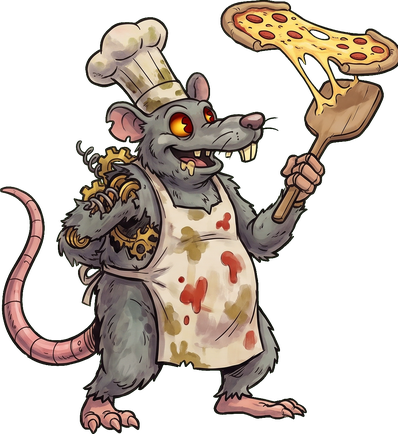
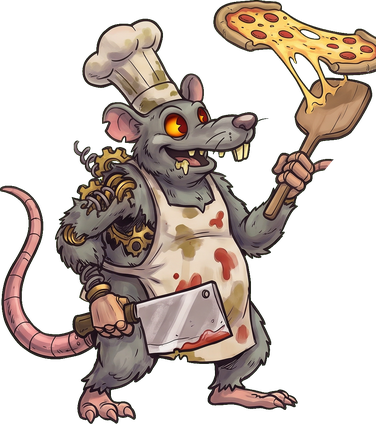
Big Cheese: one consistent cleaver
Redrew the boss with the same single cleaver in every pose (idle, raise, chop, pizza throw, angry)
and use that painted cleaver for the giant slam attack instead of a flat grey block.
Fix his leap never reaching the top of the screen, which left him missing for seconds.

Claude-Session: https://claude.ai/code/session_01QtVCv6hvRPeFWVPR6AJn1G

diff --git a/engine/src/game.c b/engine/src/game.c
@@ -24,7 +24,7 @@ static float signf(float v) { return v < 0 ? -1.0f : 1.0f; }
 
 /* ------------------------------------------------------------ assets */
 #define HERO_FRAMES 8
-typedef struct { Tex hero[3][HERO_FRAMES]; Tex usher[5], dog[5], blob[4], inky[3], gore[12], goat[5], meat[5], slice[5], rat[3], gore2[12], bg2; Tex bg, disc, vignette, mask, grain[4]; Font font, small; } Assets;
+typedef struct { Tex hero[3][HERO_FRAMES]; Tex usher[5], dog[5], blob[4], inky[3], gore[12], goat[5], meat[5], slice[5], rat[5], cleaver, gore2[12], bg2; Tex bg, disc, vignette, mask, grain[4]; Font font, small; } Assets;
 static Assets A;
 static Font padFont, padSmall; static Tex padDisc;
 
@@ -425,7 +425,8 @@ void game_init(void) {
         snprintf(rel, sizeof rel, "chars/meat_%d.png", i); A.meat[i] = load_or_empty(rel); if (!A.meat[i].tex && i) A.meat[i] = A.meat[0];
         snprintf(rel, sizeof rel, "chars/slice_%d.png", i); A.slice[i] = load_or_empty(rel); if (!A.slice[i].tex && i) A.slice[i] = A.slice[0];
     }
-    for (int i = 0; i < 3; i++) { snprintf(rel, sizeof rel, "chars/rat_%d.png", i); A.rat[i] = load_or_empty(rel); }
+    for (int i = 0; i < 5; i++) { snprintf(rel, sizeof rel, "chars/rat_%d.png", i); A.rat[i] = load_or_empty(rel); }
+    A.cleaver = load_or_empty("chars/cleaver.png");
     A.bg2 = load_or_empty("bg/pizza.jpg");
     for (int i = 0; i < 3; i++) { snprintf(rel, sizeof rel, "chars/inky_%d.png", i); A.inky[i] = load_or_empty(rel); }
     A.bg = load_or_empty("bg/theater.jpg");
@@ -961,7 +962,7 @@ static void update_boss_rat(void) {
     switch (boss.state) {
     case BS_INTRO: boss.pose = 0; if (boss.timer <= 0) { boss.state = BS_IDLE; boss.timer = 1.0f; } break;
     case BS_IDLE:
-        boss.pose = angry < 1 ? 2 : 0; boss.bob = fabsf(sinf(boss.t * 6)) * -10;
+        boss.pose = angry < 1 ? 4 : 0; boss.bob = fabsf(sinf(boss.t * 6)) * -10;
         if (t) { float want = t->x - boss.face * 380; boss.x += clampf(want - boss.x, -1, 1) * 110 / angry * DT; }
         boss.x = clampf(boss.x, lo, hi);
         if (boss.timer <= 0) {
@@ -969,7 +970,7 @@ static void update_boss_rat(void) {
             if (pick_ == 0) { boss.state = RS_CHOP_AIM; boss.slams = angry < 1 ? 3 : 2; boss.timer = 0.8f * angry; boss.targetx = t ? t->x : boss.x; }
             else if (pick_ == 1) { boss.state = RS_PIZZA; boss.slams = 3; boss.timer = 0.3f; }
             else if (pick_ == 2) { boss.state = RS_WAVE_WARN; boss.timer = 0.8f * angry; sfx("charge"); }
-            else { boss.state = RS_LEAP; boss.vy = -1500; sfx("jump"); }
+            else { boss.state = RS_LEAP; boss.vy = -2100; sfx("jump"); }
             if (angry < 1 && !boss.summoned) { boss.summoned = 1; spawn(E_MEATBALL, (int)((ARENA_X + 200) / TILE), 13); spawn(E_MEATBALL, (int)((ARENA_X + 900) / TILE), 13); sfx("summon"); }
         }
         break;
@@ -981,12 +982,12 @@ static void update_boss_rat(void) {
             for (int k = 0; k < 8; k++) part_k(PK_DEBRIS, boss.targetx, FLOOR_Y - 8, (frand() - 0.5f) * 700, -300 - frand() * 500, 2.0f, 8 + frand() * 10, 1700, 110, 70, 40, 0); }
         break;
     case RS_CHOP:
-        boss.pose = 1; boss_hit_player_box(boss.targetx, FLOOR_Y, 110, FLOOR_Y);
+        boss.pose = 2; boss_hit_player_box(boss.targetx, FLOOR_Y, 110, FLOOR_Y);
         if (boss.timer <= 0) { if (--boss.slams > 0) { boss.state = RS_CHOP_AIM; boss.timer = 0.55f * angry; boss.targetx = t ? t->x : boss.targetx; }
             else { boss.state = BS_IDLE; boss.timer = 1.3f * angry; } }
         break;
     case RS_PIZZA:      /* flings pizzas that bounce along the floor */
-        boss.pose = 0;
+        boss.pose = boss.timer > 0.5f * angry - 0.22f && boss.slams < 3 ? 3 : 0;
         if (boss.timer <= 0) {
             Proj *q = proj(P_PIZZA, boss.x + boss.face * 120, boss.y - 260, boss.face * (330 + 70 * boss.slams), -520, 1, 1);
             if (q) { q->grav = 1400; q->r = 26; q->bounces = 4; q->life = 4; }
@@ -1002,11 +1003,11 @@ static void update_boss_rat(void) {
         if (boss.sweepx < ARENA_X - 60 || boss.sweepx > ARENA_X + SCREEN_W + 60) { boss.state = BS_IDLE; boss.timer = 1.1f * angry; }
         break;
     case RS_LEAP:       /* jumps off the top of the screen... */
-        boss.pose = 2; boss.vy += 1800 * DT; boss.y += boss.vy * DT;
-        if (boss.y < -200) { boss.state = RS_FALL; boss.timer = 1.0f; boss.targetx = t ? t->x : boss.x; boss.vy = 0; }
+        boss.pose = 4; boss.vy += 1800 * DT; boss.y += boss.vy * DT;
+        if (boss.y < -200 || (boss.vy > 0 && boss.y > -60)) { boss.state = RS_FALL; boss.timer = 1.0f; boss.targetx = t ? t->x : boss.x; boss.vy = 0; }
         break;
     case RS_FALL:       /* ...and crashes down where you were standing */
-        boss.pose = 2;
+        boss.pose = 4;
         if (boss.timer > 0.25f && t) boss.targetx += (t->x - boss.targetx) * 0.06f;
         if (boss.timer <= 0) {
             boss.x = clampf(boss.targetx, lo, hi); boss.vy += 3200 * DT; boss.y += boss.vy * DT;
@@ -1018,12 +1019,12 @@ static void update_boss_rat(void) {
         }
         break;
     case BS_DEAD:
-        if (boss.pose >= 0) boss.pose = 2;
+        if (boss.pose >= 0) boss.pose = 4;
         if (frame_no % 4 == 0) { sfx("boom"); blood_spurt(boss.x + (frand() - 0.5f) * 200, boss.y - frand() * 300, frand() < 0.5f ? -1 : 1, 10, 700);
             gore_part2(rand() % 12, boss.x + (frand() - 0.5f) * 200, boss.y - 100 - frand() * 250, 700, rand() & 1);
             for (int k = 0; k < 6; k++) part_k(PK_BLOOD, boss.x, boss.y - 200, (frand() - 0.5f) * 800, -300 - frand() * 500, 1.4f, 6, 1500, 250, 190, 60, 0); }
         if (!boss.summoned && boss.timer < 1.0f) {
-            boss.summoned = 1; shatter(&A.rat[2], boss.x, boss.y + 10, boss.face > 0, 5, 5, 800, 1); boss.pose = -1;
+            boss.summoned = 1; shatter(&A.rat[4], boss.x, boss.y + 10, boss.face > 0, 5, 5, 800, 1); boss.pose = -1;
             for (int k = 0; k < 6; k++) gore_part2(11, boss.x, boss.y - 200, 800, 1);
             gore_part2(3, boss.x - 20, boss.y - 330, 900, 1); gore_part2(3, boss.x + 20, boss.y - 330, 900, 1);
             blood_spurt(boss.x, boss.y - 250, -1, 60, 900); blood_spurt(boss.x, boss.y - 250, 1, 40, 800);
@@ -1039,11 +1040,11 @@ static void draw_boss_rat(float ox, float oy) {
     if (boss.state == RS_CHOP_AIM) { float k = 1 - boss.timer / 0.8f, tx = sx(boss.targetx) + ox;
         draw_ellipse(&A.disc, tx, FLOOR_Y + oy, 40 + 30 * k, 9 + 6 * k, 10, 6, 10, (Uint8)(120 + 120 * k));
         if ((frame_no / 4) % 2) draw_text_col(&A.small, "!", tx, FLOOR_Y + oy - 60, 0.8f, 1, 255, 60, 40, 255); }
-    if (boss.state == RS_CHOP) { float tx = sx(boss.targetx) + ox;   /* a giant cleaver blade */
-        fill_rect((int)tx - 55, 0, 110, FLOOR_Y + (int)oy - 10, 40, 36, 40, 255);
-        fill_rect((int)tx - 50, 0, 100, FLOOR_Y + (int)oy - 16, 190, 196, 205, 255);
-        fill_rect((int)tx - 50, FLOOR_Y + (int)oy - 34, 100, 18, 235, 240, 245, 255);
-        draw_ellipse(&A.disc, tx + 20, 60 + oy, 12, 12, 40, 36, 40, 255); }
+    if (boss.state == RS_CHOP) { float tx = sx(boss.targetx) + ox;   /* his cleaver, giant, slams down blade-first */
+        float k = clampf((0.3f - boss.timer) / 0.06f, 0, 1), h = A.cleaver.h ? (float)A.cleaver.h : 300;
+        float cy = -h + (FLOOR_Y + oy + 16) * k;   /* bottom edge reaches the floor */
+        if (A.cleaver.tex) draw_tex_srcx(&A.cleaver, NULL, tx - A.cleaver.w * 0.5f, cy, (float)A.cleaver.w, h, boss.face < 0, 0, 255, 255, 255, 255);
+        else { fill_rect((int)tx - 50, 0, 100, FLOOR_Y + (int)oy - 16, 190, 196, 205, 255); } }
     if (boss.state == RS_FALL && boss.timer > 0) { float k = 1 - boss.timer, tx = sx(boss.targetx) + ox;
         draw_ellipse(&A.disc, tx, FLOOR_Y + oy, 60 + 120 * k, 12 + 12 * k, 10, 6, 10, (Uint8)(100 + 140 * k)); }
     if (boss.state == RS_WAVE_WARN && (frame_no / 5) % 2) draw_glow(&A.disc, x + boss.face * 120, FLOOR_Y + oy - 30, 70, 255, 200, 80, 255);
